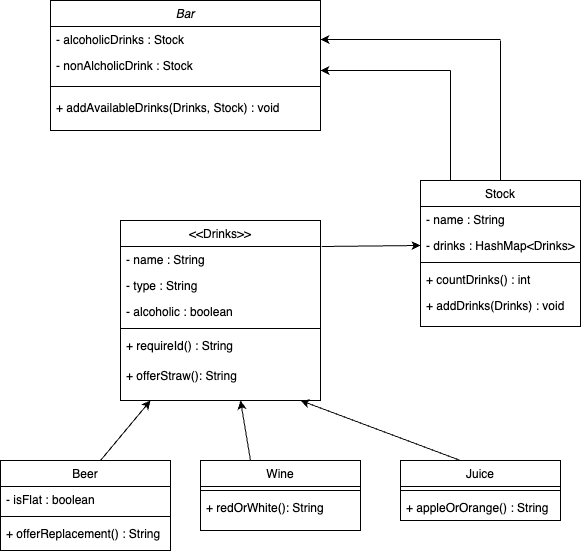
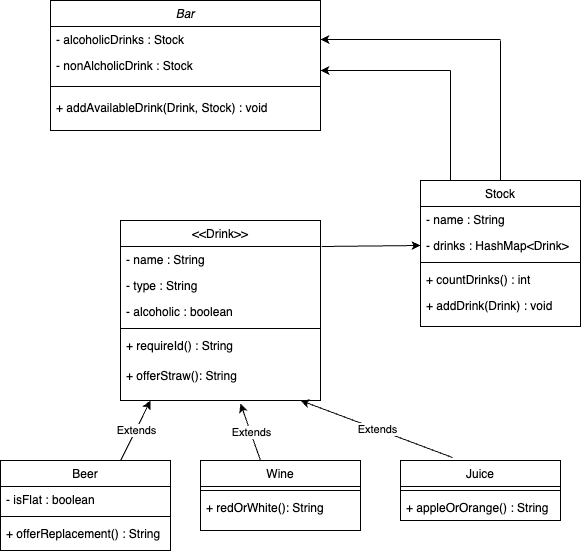
worked on drink class

diff --git a/PolymorphismLab/src/main/java/drinks/Drink.java b/PolymorphismLab/src/main/java/drinks/Drink.java
@@ -1,4 +1,33 @@
 package drinks;
 
-public class Drink {
+public abstract class Drink {
+
+    private String name;
+    private boolean alcoholic;
+    private String type;
+
+    public Drink (String name, boolean alcoholic, String type) {
+        this.name = name;
+        this.alcoholic = true;
+        this.type = type;
+    }
+
+    public String getName(){
+        return name;
+    }
+
+    public void setName(){
+        this.name = name;
+    }
+
+    public String requireId(){
+        if(alcoholic = true);
+        return "Can I see your ID?";
+    }
+
+    public String offerStraw(){
+        if(type == "tall");
+        return "Would you like a straw?";
+    }
+
 }
